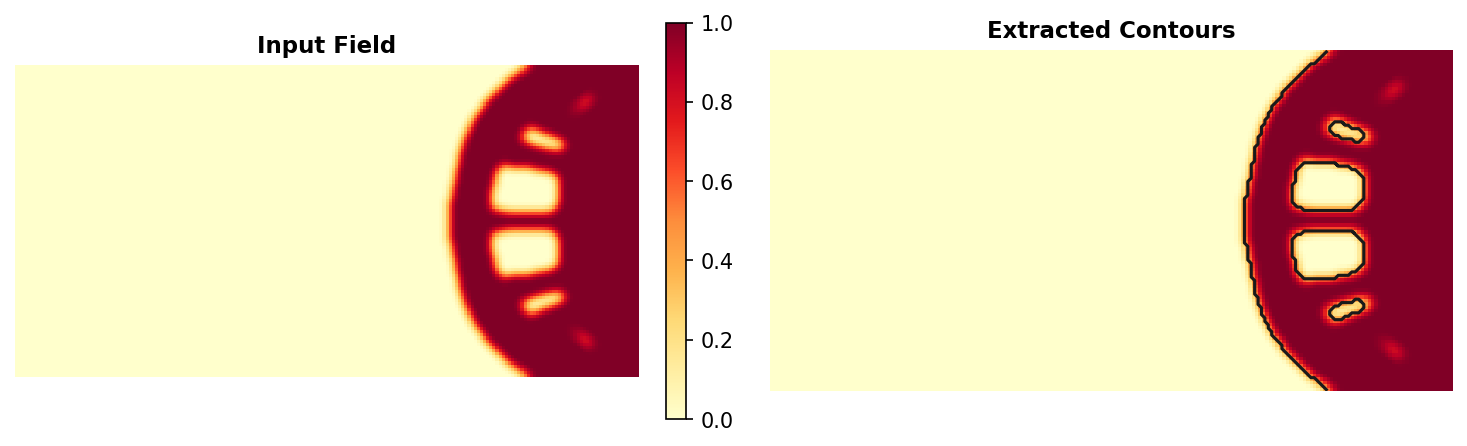
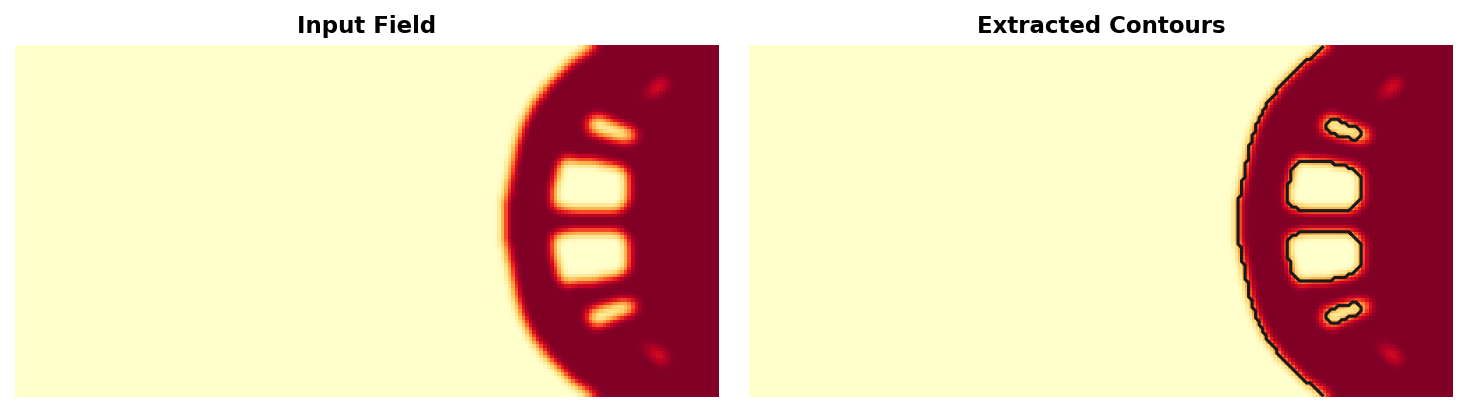
fix: remove colorbar from 2D quick-start, tighten extraction comparison
Remove colorbar between panels in quick-start-2d.png so both panels
are equal size. Fix extraction comparison image: correct aspect ratio
via set_box_aspect, reduce whitespace with tighter margins, improve
view angle.

Changed region(s): [[0.0, 0.0291, 1.0, 0.9612], [0.6442, 0.0291, 0.8589, 0.0874]]

diff --git a/scripts/generate_doc_images.py b/scripts/generate_doc_images.py
@@ -606,11 +606,10 @@ def gen_quickstart_2d() -> None:
     fig, (ax_in, ax_out) = plt.subplots(1, 2, figsize=(10, 3.2))
     fig.patch.set_facecolor(BG_COLOR)
 
-    # Left: raw input field
-    im = ax_in.imshow(state.field, cmap="YlOrRd", origin="lower", vmin=0, vmax=1)
+    # Left: raw input field (no colorbar — keeps both panels equal size)
+    ax_in.imshow(state.field, cmap="YlOrRd", origin="lower", vmin=0, vmax=1)
     ax_in.set_title("Input Field", fontsize=11, fontweight="bold")
     ax_in.axis("off")
-    fig.colorbar(im, ax=ax_in, fraction=0.046, pad=0.04)
 
     # Right: field with extracted contours overlaid
     ax_out.imshow(state.field, cmap="YlOrRd", origin="lower", vmin=0, vmax=1)
@@ -747,26 +746,34 @@ def gen_extraction_comparison() -> None:
     dc_v, dc_f = dual_isosurface(sdf, vertex_strategy="dc")
     sn_v, sn_f = dual_isosurface(sdf, vertex_strategy="surfnets")
 
-    fig = plt.figure(figsize=(16, 5.5), facecolor=BG_COLOR)
+    fig = plt.figure(figsize=(15, 7), facecolor=BG_COLOR)
     methods = [
         ("Marching Cubes", mc_v, mc_f),
         ("Dual Contouring", dc_v, dc_f),
         ("Surface Nets", sn_v, sn_f),
     ]
+    # Tight per-axis bounds with small padding
     all_v = np.vstack([mc_v, dc_v, sn_v])
-    margin = 2
+    pad = 1
+    xlim = (all_v[:, 0].min() - pad, all_v[:, 0].max() + pad)
+    ylim = (all_v[:, 1].min() - pad, all_v[:, 1].max() + pad)
+    zlim = (all_v[:, 2].min() - pad, all_v[:, 2].max() + pad)
+    # Compute box aspect from actual data ranges
+    ranges = np.array([xlim[1] - xlim[0], ylim[1] - ylim[0], zlim[1] - zlim[0]])
+    box_aspect = ranges / ranges.max()
     for i, (name, v, f) in enumerate(methods):
         ax = fig.add_subplot(1, 3, i + 1, projection="3d")
         ax.plot_trisurf(
-            v[:, 2], v[:, 0], v[:, 1], triangles=f, color="#3182BD", edgecolor="#1a1a1a", linewidth=0.02, alpha=0.95
+            v[:, 0], v[:, 1], v[:, 2], triangles=f, color="#3182BD", edgecolor="#1a1a1a", linewidth=0.02, alpha=0.95
         )
         ax.set_title(f"{name}\n({v.shape[0]:,} verts, {f.shape[0]:,} faces)", fontsize=12, fontweight="bold")
-        ax.view_init(elev=20, azim=-45)
+        ax.view_init(elev=25, azim=-70)
         ax.set_axis_off()
-        ax.set_xlim(all_v[:, 2].min() - margin, all_v[:, 2].max() + margin)
-        ax.set_ylim(all_v[:, 0].min() - margin, all_v[:, 0].max() + margin)
-        ax.set_zlim(all_v[:, 1].min() - margin, all_v[:, 1].max() + margin)
-    fig.tight_layout(pad=1.0)
+        ax.set_xlim(*xlim)
+        ax.set_ylim(*ylim)
+        ax.set_zlim(*zlim)
+        ax.set_box_aspect(box_aspect)
+    fig.subplots_adjust(left=0.0, right=1.0, bottom=-0.05, top=0.88, wspace=-0.1)
     fig.savefig(OUTPUT_DIR / "extraction-comparison.png", dpi=DPI, bbox_inches="tight", facecolor=BG_COLOR)
     plt.close(fig)
 
